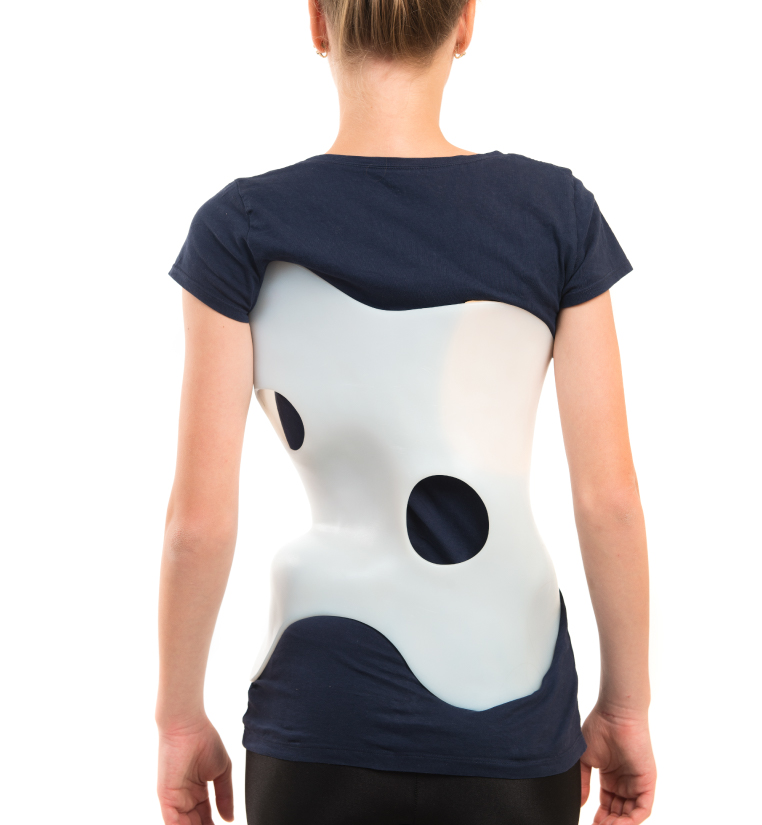
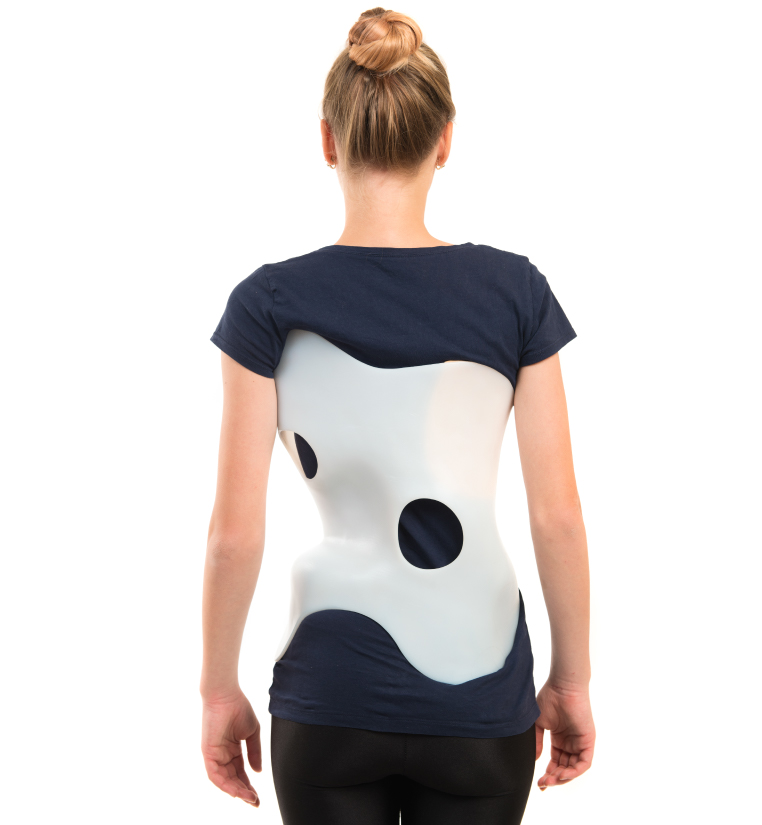
Cambio de imagen y espaciado en parrafo

diff --git a/index.html b/index.html
@@ -247,7 +247,7 @@
 
   <div class="overflow-hidden">
 
-    <section id="company-services" class="py-20 lg:py-28" data-aos="zoom-out">
+    <section id="company-services" class="py-20 lg:py-28 px-8" data-aos="zoom-out">
       <div class="flex justify-center flex-col w-full lg:w-2/3 mx-auto mb-8 text-center">
         <h2 class="text-4xl font-bold mb-8">Corse 3D</h2>
         <p>El Corsé 3D es una <strong>ortesis toracolumbosacra personalizada</strong>, diseñada a partir de un